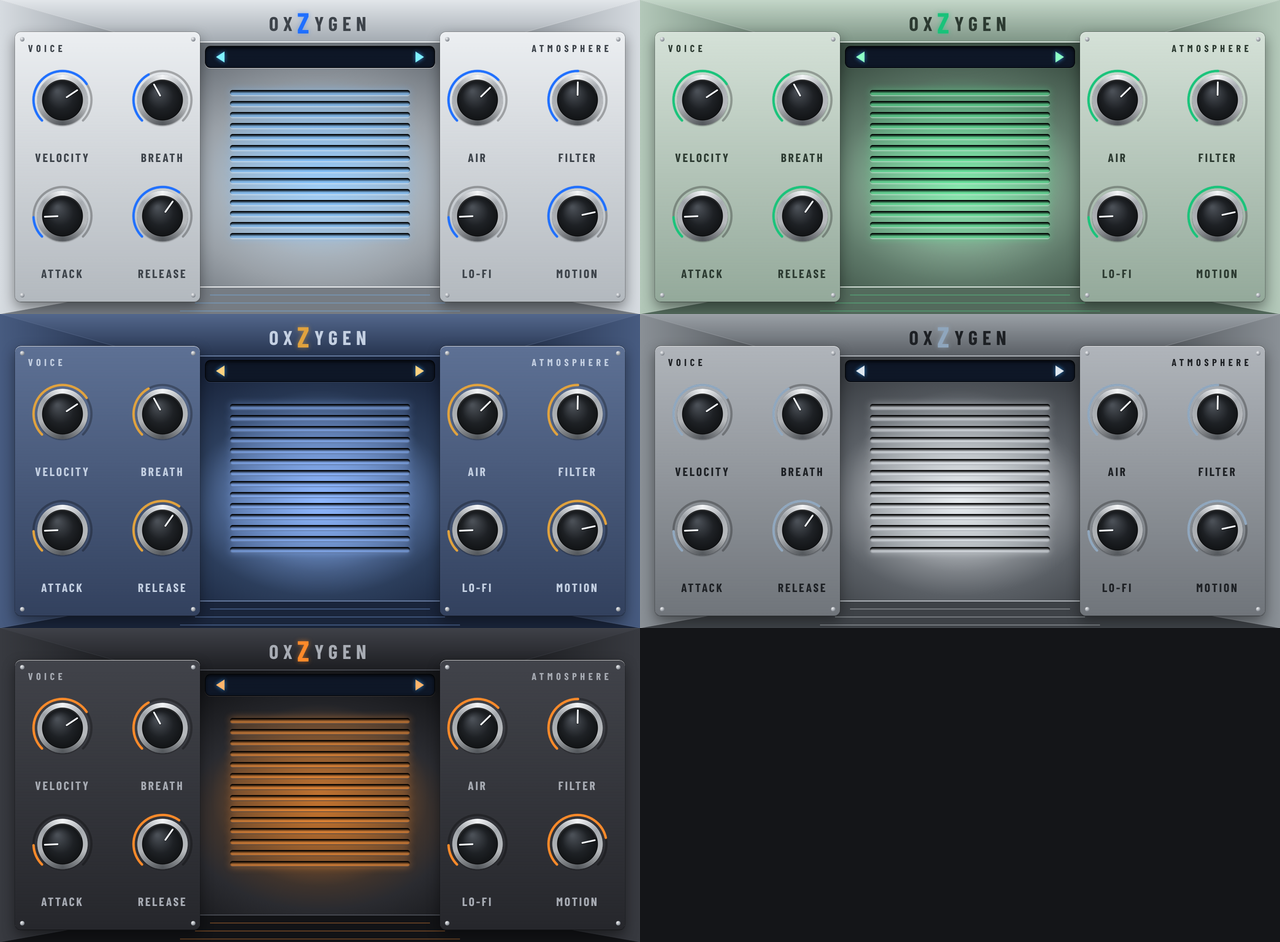
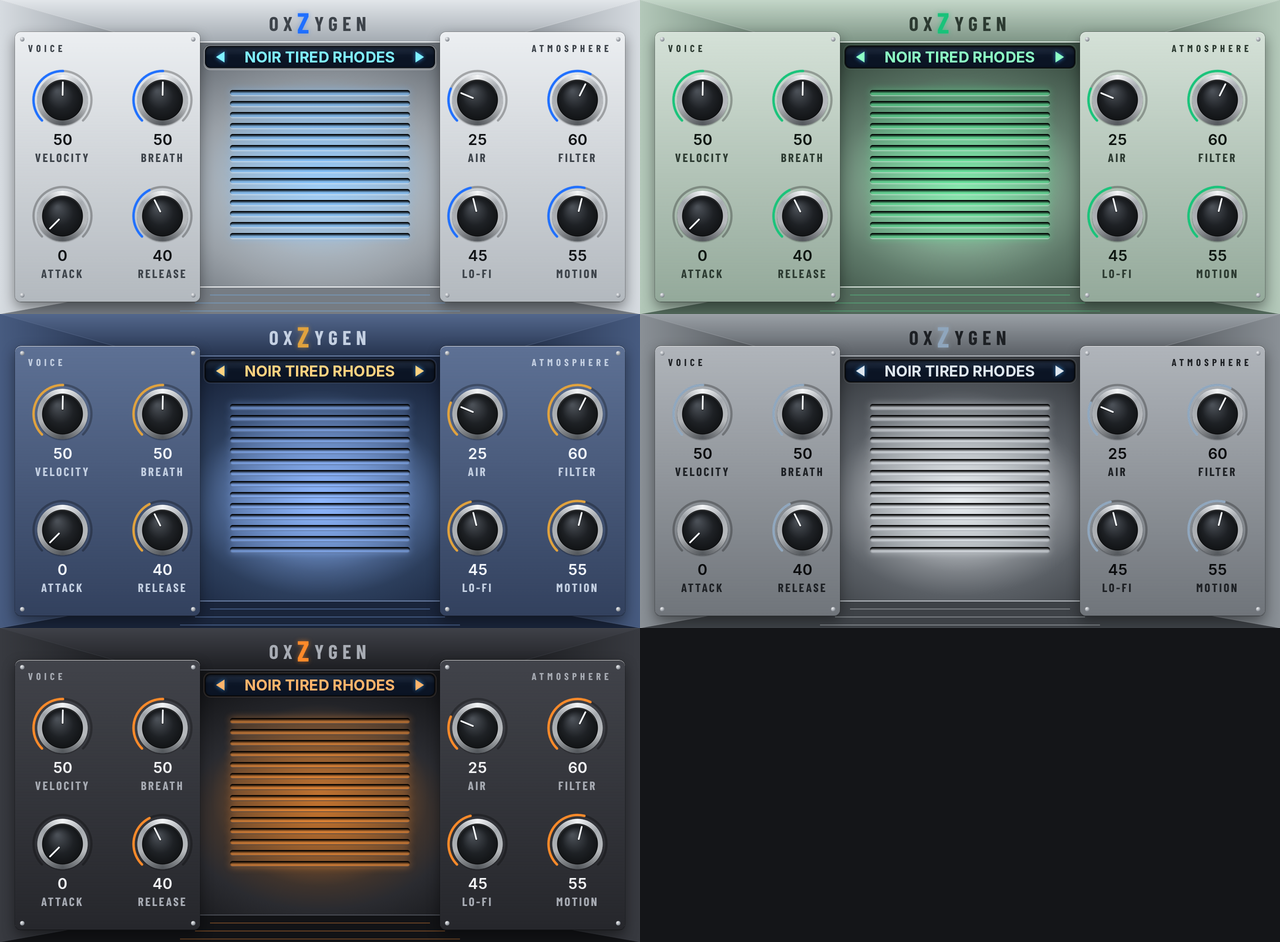
Screenshots from the current UI: tools/screenshots.py renders every page from the skin art and the engine's real values
Claude-Session: https://claude.ai/code/session_01JcLVG2K2WpLzKD3u6LkzWb

diff --git a/tools/screenshots.py b/tools/screenshots.py
@@ -1,0 +1,173 @@
+#!/usr/bin/env python3
+"""Render the README / catalog / release screenshots (docs/img/*.png) from the built skin art and vst/skin/layout.conf.
+
+Composites each page as MPC draws it: the background, knob and meter filmstrip frames, segmented selectors, lists,
+readouts and pictures, with the values below. Text MPC draws itself (values, segment and list text) is set in Inter.
+Run from the repo root after vst/skin/make_skin.py:  python3 tools/screenshots.py
+"""
+import os, re, shlex
+from PIL import Image, ImageDraw, ImageFont
+
+ROOT = os.path.dirname(os.path.dirname(os.path.abspath(__file__)))
+SKIN = os.path.join(ROOT, "vst", "skin")
+OUT = os.path.join(ROOT, "docs", "img")
+Y0 = 86                     # the plugin area starts 86 px down MPC's screen
+FONT = "/usr/share/fonts/opentype/inter/Inter-%s.otf"
+THEMES = ["ALUMINUM", "GREEN", "NAVY", "GRAPHITE", "NEBULA"]
+NCATS = 10
+
+
+def font(size, weight="SemiBold"):
+    return ImageFont.truetype(FONT % weight, size)
+
+
+def parse():
+    tabs, cur, glob = {}, None, {}
+    for line in open(os.path.join(SKIN, "layout.conf")):
+        line = line.strip()
+        if not line or line.startswith("#"):
+            continue
+        m = re.match(r"\[tab (\w+)\]", line)
+        if m:
+            cur = tabs.setdefault(m.group(1), [])
+            continue
+        if cur is None:
+            if "=" in line:
+                k, v = line.split("=", 1)
+                glob[k.strip()] = v.strip()
+            continue
+        parts = shlex.split(line)
+        kind, attrs = parts[0], {}
+        for p in parts[1:]:
+            if "=" in p:
+                k, v = p.split("=", 1)
+                attrs[k] = v
+        cur.append((kind, attrs))
+    return tabs, glob
+
+
+def shown(a, st):
+    w = a.get("when")
+    if not w:
+        return True
+    k, v = w.split(":")
+    return int(st.get(k, 0)) == int(v)
+
+
+def img(path):
+    return Image.open(os.path.join(SKIN, path)).convert("RGBA")
+
+
+def frame(strip, n, i, w=None, h=None):
+    fh = strip.height // n
+    return strip.crop((0, i * fh, strip.width, (i + 1) * fh))
+
+
+def text(d, xy, s, size, color, weight="SemiBold", anchor="mm"):
+    d.text(xy, s, font=font(size, weight), fill="#" + color, anchor=anchor)
+
+
+def render(tab, st, glob):
+    base = None
+    d = None
+    for kind, a in tab:
+        if not shown(a, st):
+            continue
+        if kind == "art":
+            base = img(a["file"]).resize((1280, 628))
+            d = ImageDraw.Draw(base)
+        elif kind == "meter":
+            s = img(a["strip"]); n = int(a["frames"])
+            f = frame(s, n, min(n - 1, int(st.get(a["key"], 0))))
+            cx, cy = int(a["cx"]), int(a["cy"]) - Y0
+            base.paste(f, (cx - f.width // 2, cy - f.height // 2), f)
+        elif kind == "knob":
+            s = img(a["strip"]); v = st.get(a["key"], (0.5, ""))
+            f = frame(s, s.height // s.width, round(v[0] * (s.height // s.width - 1)))
+            cx, cy, r = int(a["cx"]), int(a["cy"]) - Y0, int(a["r"])
+            base.paste(f, (cx - f.width // 2, cy - f.height // 2), f)
+            vs = int(a["vs"])
+            text(d, (cx, cy + r + 2 + vs * 0.62), v[1], vs, a["ink"])
+        elif kind == "enum_h":
+            opts = a["options"].split(","); rows = int(a.get("rows", 1)); cols = -(-len(opts) // rows)
+            sw, sh = int(a["sw"]), int(a["sh"]); gap = 2
+            W, H = cols * sw + (cols - 1) * gap, rows * sh + (rows - 1) * gap
+            x0, y0 = int(a["cx"]) - W // 2, int(a["cy"]) - Y0 - H // 2
+            off, on = img(a["img"]).resize((sw, sh)), img(a["img_on"]).resize((sw, sh))
+            sel = int(st.get(a["key"], 0))
+            for i, o in enumerate(opts):
+                x, y = x0 + (i % cols) * (sw + gap), y0 + (i // cols) * (sh + gap)
+                base.paste(on if i == sel else off, (x, y), on if i == sel else off)
+                text(d, (x + sw / 2, y + sh / 2), o, 18,
+                     glob["theme_seg_active_tx"] if i == sel else glob["theme_ink"], "Bold")
+        elif kind == "list":
+            items = st.get(a["key"] + "_items", [])
+            sel = int(st.get(a["key"], 0))
+            cols, rows, th, gap = int(a["cols"]), int(a["rows"]), int(a["th"]), int(a["gap"])
+            x0, y0, w = int(a["x"]), int(a["y"]) - Y0, int(a["w"])
+            cw = (w - (cols - 1) * gap) // cols
+            off, on = img(a["img"]).resize((cw, th)), img(a["img_on"]).resize((cw, th))
+            for i, s in enumerate(items[:cols * rows]):
+                c, r_ = (i // rows, i % rows) if a.get("order") == "cols" else (i % cols, i // cols)
+                x, y = x0 + c * (cw + gap), y0 + r_ * (th + gap)
+                base.paste(on if i == sel else off, (x, y), on if i == sel else off)
+                text(d, (x + int(a.get("tx", 12)), y + th / 2), s, round(int(a["tsize"]) * 0.64),
+                     "ffffff" if i == sel else a["tcolor"], a.get("tweight", "bold").title().replace("Semibold", "SemiBold"), "lm")
+        elif kind == "readout":
+            s = st.get(a["key"])
+            if s:
+                cx, cy, w = int(a["cx"]), int(a["cy"]) - Y0, int(a["w"])
+                al = a.get("talign", "center")
+                x, anc = (cx - w // 2, "lm") if al == "left" else (cx + w // 2, "rm") if al == "right" else (cx, "mm")
+                text(d, (x, cy), s, int(a["tsize"]) - 4, a["tcolor"], "Bold", anc)
+        elif kind == "picture":
+            files = a["files"].split(",")
+            p = img(files[int(st.get(a["key"], 0))])
+            base.paste(p, (int(a["x"]), int(a["y"]) - Y0), p)
+    return base.convert("RGB")
+
+
+def engine_state():
+    """Real values and texts from the engine (tools/screenshots_state.c), after loading the first NOIR preset."""
+    import subprocess, tempfile
+    exe = os.path.join(tempfile.mkdtemp(), "state")
+    wrap = os.environ.get("MPC_VST", os.path.join(os.path.dirname(ROOT), "mpc-vst-plugins")) + "/wrapper"
+    subprocess.run(["cc", "-std=gnu11", "-I" + wrap, "-I" + ROOT + "/vst/build", "-I" + ROOT + "/vst",
+                    ROOT + "/tools/screenshots_state.c", "-lm", "-lpthread", "-o", exe], check=True)
+    out = subprocess.run([exe], check=True, capture_output=True, text=True, cwd=ROOT + "/vst").stdout
+    st = {}
+    for line in out.splitlines():
+        k, n, raw, txt, unit = (line.split("\t") + [""] * 5)[:5]
+        st[k] = (float(n), float(raw), txt, unit)
+    return st
+
+
+def main():
+    tabs, glob = parse()
+    E = engine_state()
+    st = {}
+    for k, (n, raw, txt, unit) in E.items():
+        try:
+            float(txt); st[k] = (min(1.0, max(0.0, n)), txt + (" " + unit if unit else ""))   # a knob value
+        except ValueError:
+            st[k] = int(round(raw)) if not k.startswith(("row_", "cat_")) else txt         # an option index
+        if k in ("p_name", "b_head", "b_page", "th_name", "ds_name", "ms_name"):
+            st[k] = txt
+    st.update(theme=0, orb=16, cat=0, row=-1,
+              cat_items=[E["cat_%d" % i][2] for i in range(1, 13)], row_items=[E["row_%d" % i][2] for i in range(1, 25)])
+    for sl in "ab":
+        st[sl + "_look"] = st[sl + "_cat"]          # theme 0: the look is the category
+    player = browse = sound = fx = st
+    os.makedirs(OUT, exist_ok=True)
+    pages = {"player": ("PLAYER", player), "browse": ("BROWSE", browse), "sound": ("SOUND", sound), "fx": ("FX", fx)}
+    for name, (tab, st) in pages.items():
+        render(tabs[tab], st, glob).save(os.path.join(OUT, name + ".png"), optimize=True)
+    m = Image.new("RGB", (1280, 314 * 3), (20, 21, 24))
+    for i in range(5):
+        st = dict(player, theme=i, a_look=i * NCATS + player["a_look"], b_look=i * NCATS + player["b_look"])
+        m.paste(render(tabs["PLAYER"], st, glob).resize((640, 314), Image.LANCZOS), ((i % 2) * 640, (i // 2) * 314))
+    m.save(os.path.join(OUT, "themes.png"), optimize=True)
+
+
+if __name__ == "__main__":
+    main()

diff --git a/tools/screenshots_state.c b/tools/screenshots_state.c
@@ -1,0 +1,18 @@
+/* Engine state for tools/screenshots.py: every param (key, normalized, raw, text, unit) after loading the first NOIR
+ * preset, plus the BROWSE list texts. Built and run by screenshots.py. */
+#include "engine.c"
+/* print every param: key \t normalized \t text \t unit, after loading a NOIR preset and browsing NOIR */
+int main(void) {
+    void *s = ENGINE.create(NULL); char b[256];
+    int pick = -1;
+    for (int p = 0; p < NPRESET; p++) { b[0]=0; get_param(s, (snprintf(b,64,"preset_category:%d",p), b), b, 256); if (!strcmp(b,"NOIR")) { pick = p; break; } }
+    char v[32]; snprintf(v, 32, "%d", pick); ENGINE.set_param(s, "preset", v);
+    int16_t buf[256]; for (int k = 0; k < 40; k++) ENGINE.render(s, buf, 128);
+    for (int i = 0; i < NPARAMS; i++) {
+        oxz_t *o = s; float x = o->val[i], n = PARAMS[i].max > PARAMS[i].min ? (x - PARAMS[i].min) / (PARAMS[i].max - PARAMS[i].min) : 0;
+        b[0] = 0; get_param(s, PARAMS[i].key, b, 256);
+        printf("%s\t%g\t%g\t%s\t%s\n", PARAMS[i].key, n, x, b, PARAMS[i].unit ? PARAMS[i].unit : "");
+    }
+    for (int i = 1; i <= 24; i++) { char k[16]; snprintf(k,16,"row_%d",i); b[0]=0; get_param(s,k,b,256); printf("%s\t0\t0\t%s\t\n",k,b); }
+    for (int i = 1; i <= 12; i++) { char k[16]; snprintf(k,16,"cat_%d",i); b[0]=0; get_param(s,k,b,256); printf("%s\t0\t0\t%s\t\n",k,b); }
+}
